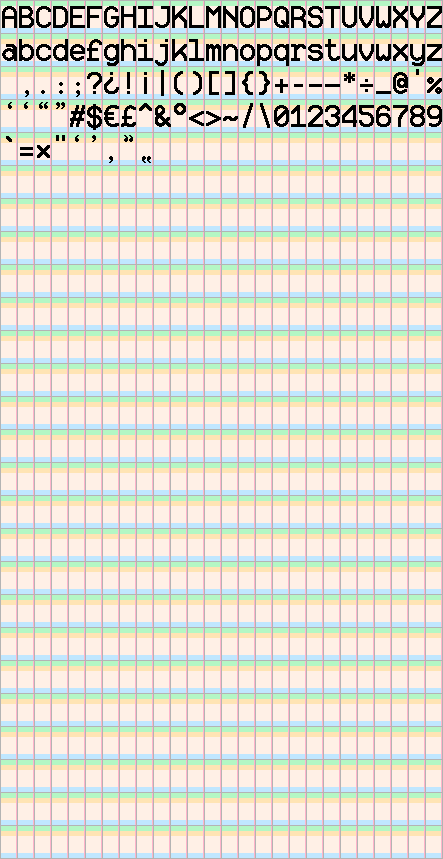
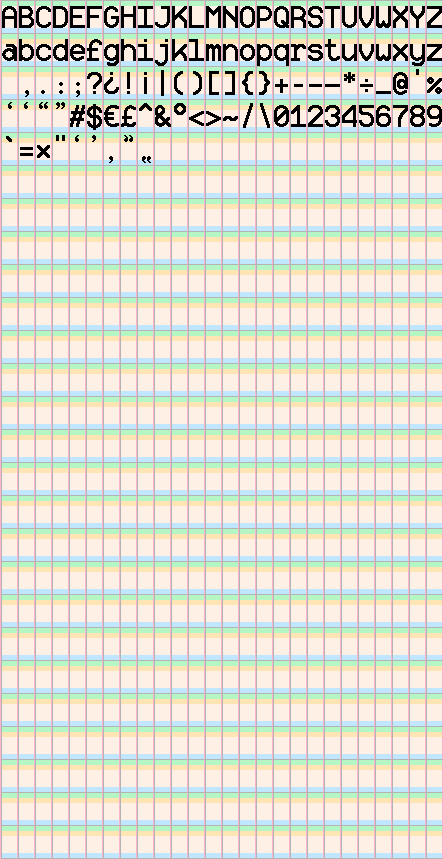
update readme

diff --git a/README.md b/README.md
@@ -1,70 +1,118 @@
 # quanta-strike
 
-A pixel typeface drawn as pixel sheets and compiled straight to fonts, shipped as a
-set of **strikes** — `quanta-strike-8`, `-12`, `-16`, `-20`, `-24` — plus a build
-pipeline that adds proper metadata and derived OpenType features.
+A modern pixel typeface. I draw each size by hand. Most fonts take one design and stretch
+it to every size. quanta-strike does not. It ships a family of *strikes*. Each strike is
+its own pixel design, drawn for one target size. Text stays crisp at the size you drew it
+for. It resamples nothing.
 
-## What a "strike" is
+The build works straight from pixel sheets. Each strike is a PNG plus a JSON file. A
+pipeline compiles that pair into fonts. It adds proper metadata and extra OpenType
+features along the way.
 
-Each strike is tuned for one rendering size:
+📖 **Read the full story:** [dithernaut.com/posts/pixel-scaling](https://dithernaut.com/posts/pixel-scaling)
 
-| strike | use at `font-size` |
-|--------|--------------------|
-| `quanta-strike-8`  | `8px`  |
-| `quanta-strike-12` | `12px` |
-| `quanta-strike-16` | `16px` |
-| `quanta-strike-20` | `20px` |
-| `quanta-strike-24` | `24px` |
+> This is a starting point. The family will grow. Today it ships **8 strikes**: **6, 10,
+> 12, 14, 16, 18, 20, and 32**. Use each one at its matching pixel size.
 
-They are **separate font families** (not weights/styles of one family) so each is
-trivial to target in CSS.
+## Why it exists
 
-### The pixel-alignment guarantee
+A pixel font has one job. Every pixel must land on the screen's pixel grid. Then the art
+stays sharp. Scaling breaks this.
 
-Every strike uses a fixed grid: **1 source pixel = 128 font units**, and the em is
-an exact whole number of pixels (`em = strike# × 128`). Rendered at its nominal
-size, one pixel is therefore exactly **1 CSS px**:
+A normal font is one set of outlines. The renderer resizes those outlines to any size you
+ask for. Smooth typefaces handle that fine. A pixel design does not. It looks right at one
+size only. That size lines its pixels up with the device grid. Ask for another size and
+the renderer has to resample. Pixel edges fall between device pixels. The rasterizer
+smears them with anti-aliasing. Your crisp blocky art turns muddy. One pixel design cannot
+stay sharp at 12px and 16px and 20px. The grids do not line up.
+
+quanta-strike takes a different path. It stops scaling. I draw each size on purpose. Every
+strike sits on a grid where 1 source pixel equals 128 font units. The em holds a whole
+number of pixels. For `quanta-strike-N` the em is N times 128. Render a strike at its own
+size and one source pixel equals exactly 1 CSS px:
 
 ```
 pixel size in CSS px = font-size × 128 / em = N × 128 / (N × 128) = 1.0
 ```
 
-So a strike used at its size lands perfectly on the device pixel grid, and one
-pixel of `quanta-strike-8` @ 8px is the same size as one pixel of
-`quanta-strike-12` @ 12px — they align.
+So each strike lands on the device pixel grid at its own size. No resampling. No blur.
+Every strike shares the same units per pixel. One pixel of `quanta-strike-12` at 12px
+matches the physical size of one pixel of `quanta-strike-20` at 20px. I draw them apart.
+They still line up.
 
-**Because of this, the pipeline never alters vertical metrics** (em / ascent /
-descent / line gap). It only rewrites naming/metadata and adds glyph features.
-Changing the em (e.g. "tightening" the line height) would push pixels off the
-grid and blur them, so it is deliberately not done here.
+## What a "strike" is
+
+Each strike targets one rendering size. Each strike is its own font family. It is not a
+weight or a style of a shared family. So you target it directly in CSS.
+
+| strike | use at `font-size` | rem @ 16px base |
+|--------|--------------------|-----------------|
+| `quanta-strike-6`  | `6px`  | `0.375rem` |
+| `quanta-strike-10` | `10px` | `0.625rem` |
+| `quanta-strike-12` | `12px` | `0.75rem`  |
+| `quanta-strike-14` | `14px` | `0.875rem` |
+| `quanta-strike-16` | `16px` | `1rem`     |
+| `quanta-strike-18` | `18px` | `1.125rem` |
+| `quanta-strike-20` | `20px` | `1.25rem`  |
+| `quanta-strike-32` | `32px` | `2rem`     |
+
+Size and family go together. A rem value gives you one pixel per pixel only with its
+matching family. Bind them in one CSS class. Never expose the size on its own.
+
+### Two variants per strike
+
+The build makes every strike twice from the same art:
+
+- **proportional** (`quanta-strike-N`) trims each glyph to its own ink. Use it for body
+  text and UI.
+- **mono** (`quanta-strike-N-mono`) fixes the advance width. Use it for code, terminals,
+  and TUIs. This variant also gets Nerd Font icons.
+
+Both stay separate families. Mono is not a style of the proportional family. Both hold the
+pixel grid. Trimming only drops whole empty pixel columns. Widths stay on the 128 grid.
+The cross-strike pixel never moves.
+
+### The pixel-alignment guarantee
+
+Landing on the grid is the whole point. So the pipeline never changes vertical metrics. It
+leaves the em, ascent, descent, and line gap alone. It only rewrites naming and metadata
+and adds glyph features. Changing the em would push pixels off the grid and blur them. So
+it never does.
 
 ```css
-@font-face { font-family: "quanta-strike-8";  src: url("woff2/quanta-strike/quanta-strike-8-regular.woff2")  format("woff2"); }
-@font-face { font-family: "quanta-strike-12"; src: url("woff2/quanta-strike/quanta-strike-12-regular.woff2") format("woff2"); }
+@font-face { font-family: "quanta-strike-16";      src: url("woff2/quanta-strike/quanta-strike-16-regular.woff2")      format("woff2"); }
+@font-face { font-family: "quanta-strike-16-mono";  src: url("woff2/quanta-strike-mono/quanta-strike-16-mono-regular.woff2") format("woff2"); }
 
-.qs-8  { font-family: "quanta-strike-8";  font-size: 8px;  line-height: 1; }
-.qs-12 { font-family: "quanta-strike-12"; font-size: 12px; line-height: 1; }
+/* proportional, for body text */
+.qs-16      { font-family: "quanta-strike-16";      font-size: 16px; line-height: 1; }
+/* mono, for code */
+.qs-16-mono { font-family: "quanta-strike-16-mono"; font-size: 16px; line-height: 1; }
 ```
+
+The fonts ship with tight line metrics based on the ink. Set `line-height` yourself if you
+want uniform leading.
 
 ## Layout
 
 ```
-src/                              # authored art (input) — never modified by the build
-  quanta-strike-8/regular/quanta-strike-8.{json,png}
-  quanta-strike-12/...
+src/                              # authored art. the build never touches it
+  quanta-strike-6/regular/quanta-strike-6.{json,png}
+  quanta-strike-10/...
   ...
-build/                            # generated output (git-ignored)
-  tmp/src/                        #   TTFs compiled from the PNG + JSON (staging)
+build/                            # generated output. git-ignored
+  tmp/                            #   TTFs compiled from PNG + JSON. staging, removed on success
   ttf/
-    quanta-strike/                #   all base strikes, one folder
-    quanta-strike-nerd/           #   Nerd Font-patched strikes
+    quanta-strike/                #   proportional strikes, one folder
+    quanta-strike-mono/           #   mono strikes
+    quanta-strike-mono-nerd/      #   Nerd Font-patched mono strikes. opt-in
   woff2/
-    quanta-strike/                #   web fonts (base strikes; nerd excluded by default)
+    quanta-strike/                #   proportional web fonts
+    quanta-strike-mono/           #   mono web fonts
 patcher/                          # vendored Nerd Fonts font-patcher + glyph sets
 ```
 
-The `src/*.json` pixel-sheet format is documented field-by-field in
-[SOURCE-FORMAT.md](SOURCE-FORMAT.md).
+[SOURCE-FORMAT.md](SOURCE-FORMAT.md) documents the `src/*.json` pixel-sheet format field by
+field.
 
 ## Requirements
 
@@ -73,91 +121,64 @@ The `src/*.json` pixel-sheet format is documented field-by-field in
 
 ## Build
 
-### Interactive
-
 ```bash
-./build.sh              # interactive
-./build.sh --defaults   # non-interactive: take every default, ask nothing (-y works too)
+./build.sh                       # interactive
+./build.sh --defaults            # non-interactive. take every default, ask nothing (-y works too)
+./build.sh -y --nerd-fonts       # add Nerd Font icons (mono variant, the slow step)
+./build.sh -y --spacing 2        # force a fixed 2px proportional gap on every strike
 ```
 
-Walks you through: select strikes → optional features (small caps, old-style
-figures, Nerd Fonts, WOFF2).
+The interactive build walks you through it. You pick strikes and optional features. The
+build makes both variants for each strike. It does proportional first, then mono. Then it
+writes WOFF2 for both. Then it patches Nerd Fonts for the mono variant, but only if you opt
+in.
 
-`--defaults` answers every prompt with its default and builds **all** strikes — handy
-for CI or a repeatable release build. The defaults are not all "yes" (version = keep,
-Nerd WOFF2 = no), which is why it isn't spelled `--yes`. Each prompt still prints the
-answer it assumed, so the log shows exactly what was built. Note it *does* build Nerd
-Fonts (that's the default), which is the slow part.
+`--defaults` answers every prompt with its default. It builds all strikes. Use it for CI or
+a repeatable release. The defaults are not all "yes". Version keeps. Nerd Fonts stay off.
+That is why the flag is not `--yes`. Each prompt still prints the answer it took, so the log
+stays clear.
 
-Metadata (author, licence, URLs, type) is read from `default-metadata.json`, so the
-build does not ask for it. Edit that file to change it; delete it to get the prompts
-back. The **version bump is always asked** — it's a per-release choice, so it
-deliberately isn't stored as a default.
-
-### Manual / scripted
-
-```bash
-# 0) Compile each strike's PNG + JSON into a TTF (src/ stays art-only)
-python3 png-to-ttf.py src/quanta-strike-8/regular/quanta-strike-8.json \
-    build/tmp/src/quanta-strike-8/regular
-
-# 1) Metadata — all strikes into one folder: build/ttf/quanta-strike/
-fontforge -lang=py -script font-metadata-patcher.py \
-    --src build/tmp/src --output build/ttf/quanta-strike --flat \
-    --lowercase --type monospace \
-    --designer "dithernaut" --designerurl "https://dithernaut.com" \
-    --license "Copyright 2026 The quanta-strike Project Authors (https://dithernaut.com)" \
-    --licensedesc "This Font Software is licensed under the SIL Open Font License, Version 1.1." \
-    --licenseurl "https://openfontlicense.org"
-
-# 2) Small caps (smcp + c2sc) from existing glyphs, in place
-python3 add-small-caps.py --src build/ttf/quanta-strike --source phonetic      # or: lowercase | capital
-
-# 3) Old-style figures (onum) from existing glyphs, in place
-python3 add-old-style-figures.py --src build/ttf/quanta-strike --source circled # or: superscript | subscript | lining
-
-# 4) Nerd Fonts -> build/ttf/quanta-strike-nerd/ (each keeps its own "<strike>-nerd" family)
-#    build.sh runs this last and only for the strikes you selected
-./generate                                       # all strikes
-./generate-nerd-fonts build/ttf/quanta-strike    # equivalent, explicit
-./generate-nerd-fonts build/ttf/quanta-strike build/ttf/quanta-strike-nerd quanta-strike-8  # one strike
-
-# 5) WOFF2 -> build/woff2/  (base strikes only by default)
-fontforge -lang=py -script convert-woff2.py build/ttf build/woff2
-fontforge -lang=py -script convert-woff2.py build/ttf build/woff2 --include-nerd   # also convert nerd
-```
+The build reads metadata from `default-metadata.json`: author, licence, URLs, and type. So
+it does not ask. Edit that file to change it. Delete it to get the prompts back. The build
+always asks for the version bump. The version is a per-release choice, so it stays out of
+the defaults.
 
 ## Scripts
 
 | script | does |
 |--------|------|
-| `png-to-ttf.py`            | Compiles a strike's PNG + JSON pixel sheet into a TTF (1 pixel = 128 units). The TTF is a build artifact, so `src/` only holds the art. |
-| `default-metadata.json`    | Not a script — the author/licence/URL defaults `build.sh` applies instead of prompting. Delete it to be asked interactively. |
-| `font-metadata-patcher.py` | Sets family/style names, OS-2, weight/width, version, copyright & URLs. `--flat` writes all strikes into one folder. **Never touches metrics** (preserves pixel alignment). |
-| `add-small-caps.py`        | Adds `smcp`/`c2sc` OpenType features, sourced from phonetic small-caps, lowercase, or capital glyphs. |
-| `add-old-style-figures.py` | Adds the `onum` feature, mapping digits to circled / superscript / subscript figures. |
-| `generate-nerd-fonts`      | Patches every `.ttf` in a folder with Nerd Font icons into a sibling `-nerd` folder. |
-| `generate`                 | Runs the Nerd Font patcher over `build/ttf/quanta-strike`. |
-| `convert-woff2.py`         | Mirrors `build/ttf/**` to `build/woff2/**` as WOFF2 (skips `-nerd` unless `--include-nerd`). |
-| `rename-family.py`         | Helper: sets a font's family/style naming while preserving other metadata. |
+| `png-to-ttf.py`            | Compiles a strike's PNG plus JSON into a TTF. 1 pixel becomes 128 units. The TTF is a build artifact, so `src/` holds only the art. `--proportional` trims each glyph instead of using the mono advance. |
+| `default-metadata.json`    | Not a script. Holds the author, licence, and URL defaults `build.sh` applies instead of prompting. Delete it to answer by hand. |
+| `font-metadata-patcher.py` | Sets family and style names, OS-2, weight, width, version, copyright, and URLs. `--flat` writes all strikes of one variant into one folder. It never touches metrics, so pixel alignment holds. |
+| `add-small-caps.py`        | Adds the `smcp` and `c2sc` features from phonetic small-caps, lowercase, or capital glyphs. |
+| `add-old-style-figures.py` | Adds the `onum` feature. It maps digits to circled, superscript, or subscript figures. |
+| `anchor-em.py`             | Runs the pixel-perfect step. It re-anchors the em to N times 128 and sets ink-based line metrics. It never rescales glyphs. |
+| `pixel-scale.py`           | Scales every strike up by one shared factor on top of anchor. The default factor 1 does nothing. |
+| `verify-pixel-grid.py`     | Guards the build. It checks that every strike shares the same pixel and every glyph sits on the 128 grid. The build stops if this fails. |
+| `generate-nerd-fonts`      | Patches every `.ttf` in a folder with Nerd Font icons. It writes them to a sibling `-nerd` folder. |
+| `convert-woff2.py`         | Mirrors `build/ttf` to `build/woff2` as WOFF2. It skips `-nerd` unless you pass `--include-nerd`. |
+| `rename-family.py`         | Sets a font's family and style naming. It keeps the rest of the metadata. |
 
 ## Features
 
-- **Metadata** — per-strike families, semver, license/copyright, designer/license URLs.
-- **Small caps** — `smcp` (lowercase→small caps) and `c2sc` (caps→small caps), built from the font's own glyphs.
-- **Old-style figures** — `onum`, built from the font's own alternate digit glyphs.
-- **Nerd Fonts** — icon-patched variants for terminal use.
-- **WOFF2** — compact web fonts (base strikes by default; add `--include-nerd` for the icon variants).
+- **Two variants:** proportional (`quanta-strike-N`) for body text, mono (`quanta-strike-N-mono`) for code.
+- **Metadata:** per-strike families, semver, license and copyright, designer and license URLs.
+- **Small caps:** the build adds `smcp` and `c2sc` from the font's own glyphs.
+- **Old-style figures:** the build adds `onum` from the font's own alternate digits.
+- **Nerd Fonts:** icon-patched mono strikes for the terminal. Opt in to get them.
+- **WOFF2:** compact web fonts for both variants. The build skips the Nerd variants by default.
 
 ## Licence
 
-The fonts are licensed **OFL-1.1** (SIL Open Font License), the licence Google Fonts
-requires — it accepts only OFL-1.1, Apache-2.0 or UFL. OFL allows redistribution,
-modification, bundling and donations; it does not allow selling the font on its own.
+Google Fonts accepts only OFL-1.1, Apache-2.0, or UFL. So the fonts use **OFL-1.1**, the
+SIL Open Font License. OFL allows redistribution, modification, bundling, and donations. It
+does not allow selling the font on its own.
 
-The licence lives in [`OFL.txt`](OFL.txt) at the repo root, and `build.sh` copies it
-into every output folder that contains fonts — the OFL requires the licence to be
-distributed with them, so don't ship a font folder without it.
+The licence lives in [`OFL.txt`](OFL.txt) at the repo root. `build.sh` copies it into every
+output folder that holds fonts. The OFL requires the licence to travel with them, so never
+ship a font folder without it.
 
 ## Thanks
-Thanks to [yal.cc](https://yal.cc) for the inspiration on how to make this algorithm. Check out [YAL's pixel font generator](https://yal.cc/tools/pixel-font/) live.
+
+Thanks to [yal.cc](https://yal.cc) for the inspiration on the underlying algorithm. Check
+out [YAL's pixel font generator](https://yal.cc/tools/pixel-font/).